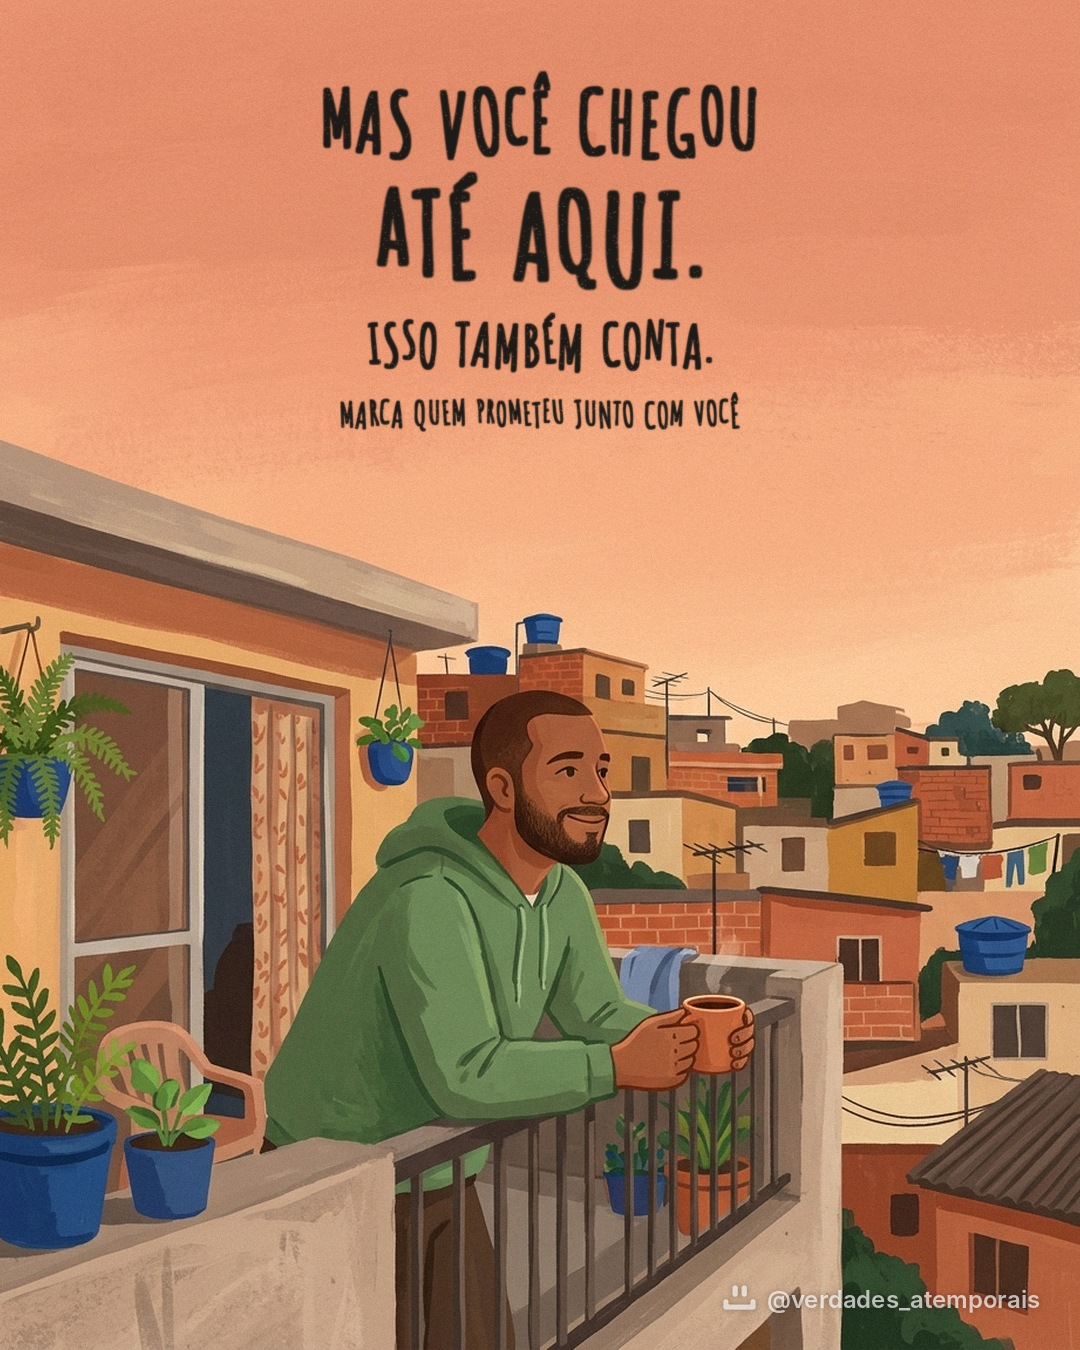
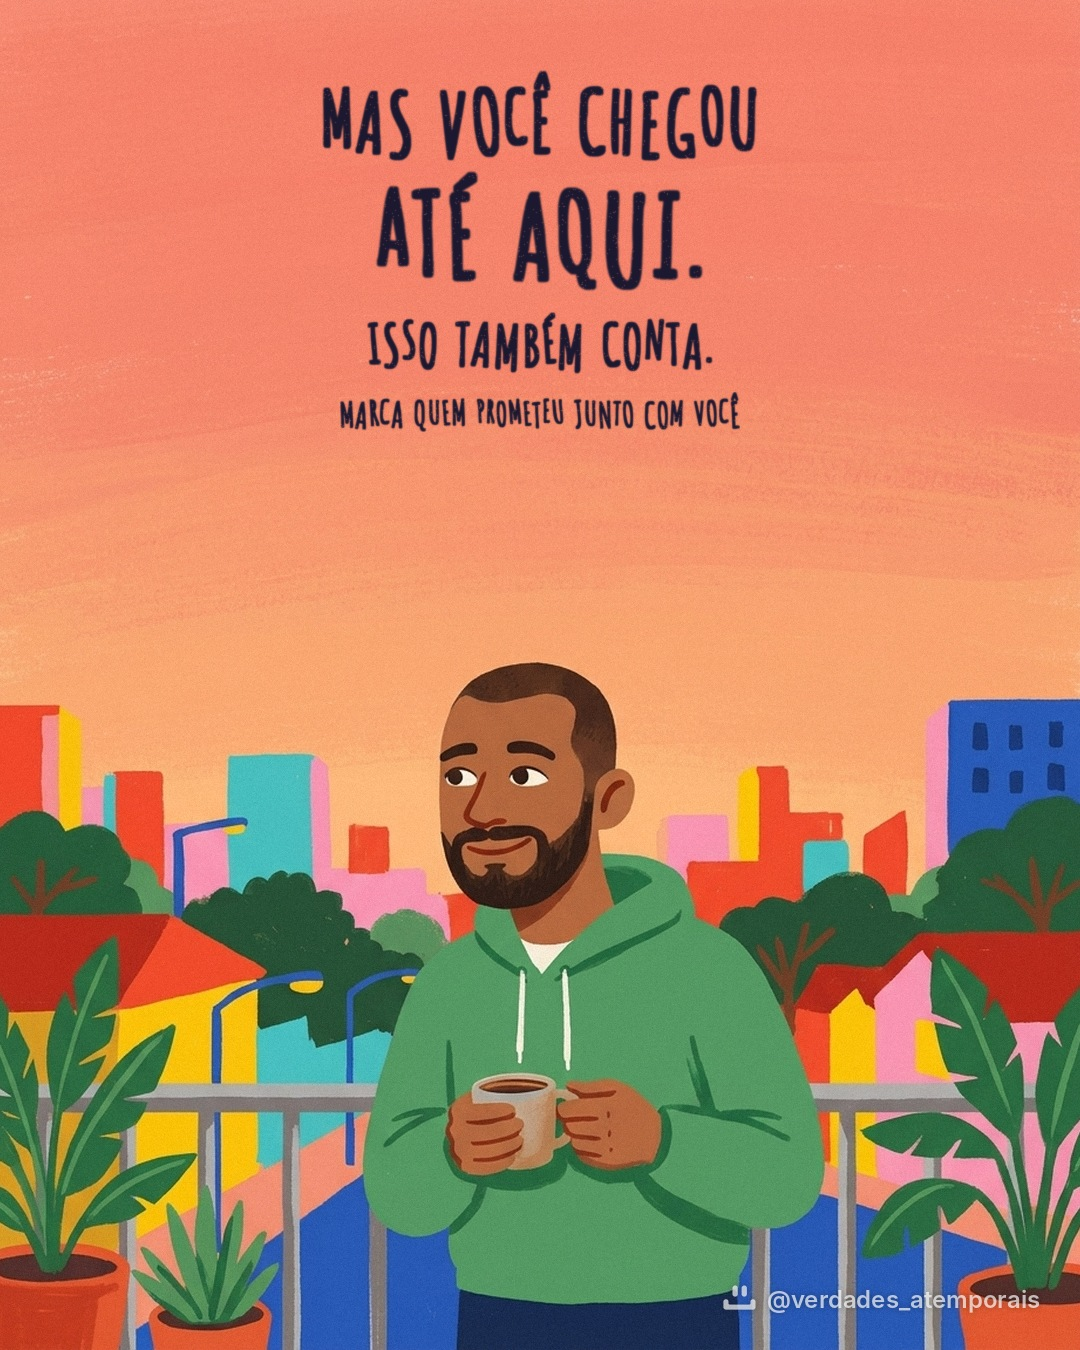
rb-014 planos e rb-016 amor: imagens novas (paletas humor e afeto)
Claude-Session: https://claude.ai/code/session_017zB9tuGnnbaxDK7QrYe7kL

diff --git a/rebrand/tarefa_lote.py b/rebrand/tarefa_lote.py
@@ -1,0 +1,22 @@
+"""Um pedido único para o modo Tarefas do Gemini cobrindo vários posts (cada um com sua paleta).
+Uso: python3 tarefa_lote.py <chave> [<chave> ...]  -> texto em uma linha (JSON string)"""
+import json, sys
+from semana_nov08 import P, CAT, CATEGORIA, ESTILO
+partes = []
+total = 0
+for k in sys.argv[1:]:
+    _, num, data, hora, ideia, elenco, slides, leg = P[k]
+    c = CAT[CATEGORIA[k]]
+    cenas = [cena for _t, cena in slides]
+    if len(cenas) == 1:
+        cenas.append(cenas[0] + ' Alternative composition, different angle.')
+    total += len(cenas)
+    itens = ' '.join(f'vb-{k}{i:02d}.png: {cena}' for i, cena in enumerate(cenas, 1))
+    partes.append(f'SERIES "{k}" ({len(cenas)} images). IDEA: {ideia}. CHARACTERS: {elenco} Keep the same look in every image of this series. '
+                  f'COLOR PALETTE of this series (use only this): {c["paleta"]}. WORLD: {c["mundo"]}. TYPE OF CHARACTERS: {c["elenco"]}. '
+                  f'TYPICAL OBJECTS: {c["objetos"]}. IMAGES: {itens}')
+estilo = ESTILO.replace('vertical 4:5 (1080x1350)', 'vertical 4:5 portrait format')
+texto = (f'Generate {total} separate illustrations, one at a time, in the order below, and save each one as a PNG file in the root folder '
+         f'of my Google Drive (My Drive) with the exact file name given. Do not ask me anything. If one image fails, retry once and go on. '
+         f'STYLE for ALL images: {estilo} Each series has its own color palette, world and characters, described below. ' + ' '.join(partes))
+print(json.dumps(texto, ensure_ascii=False))
